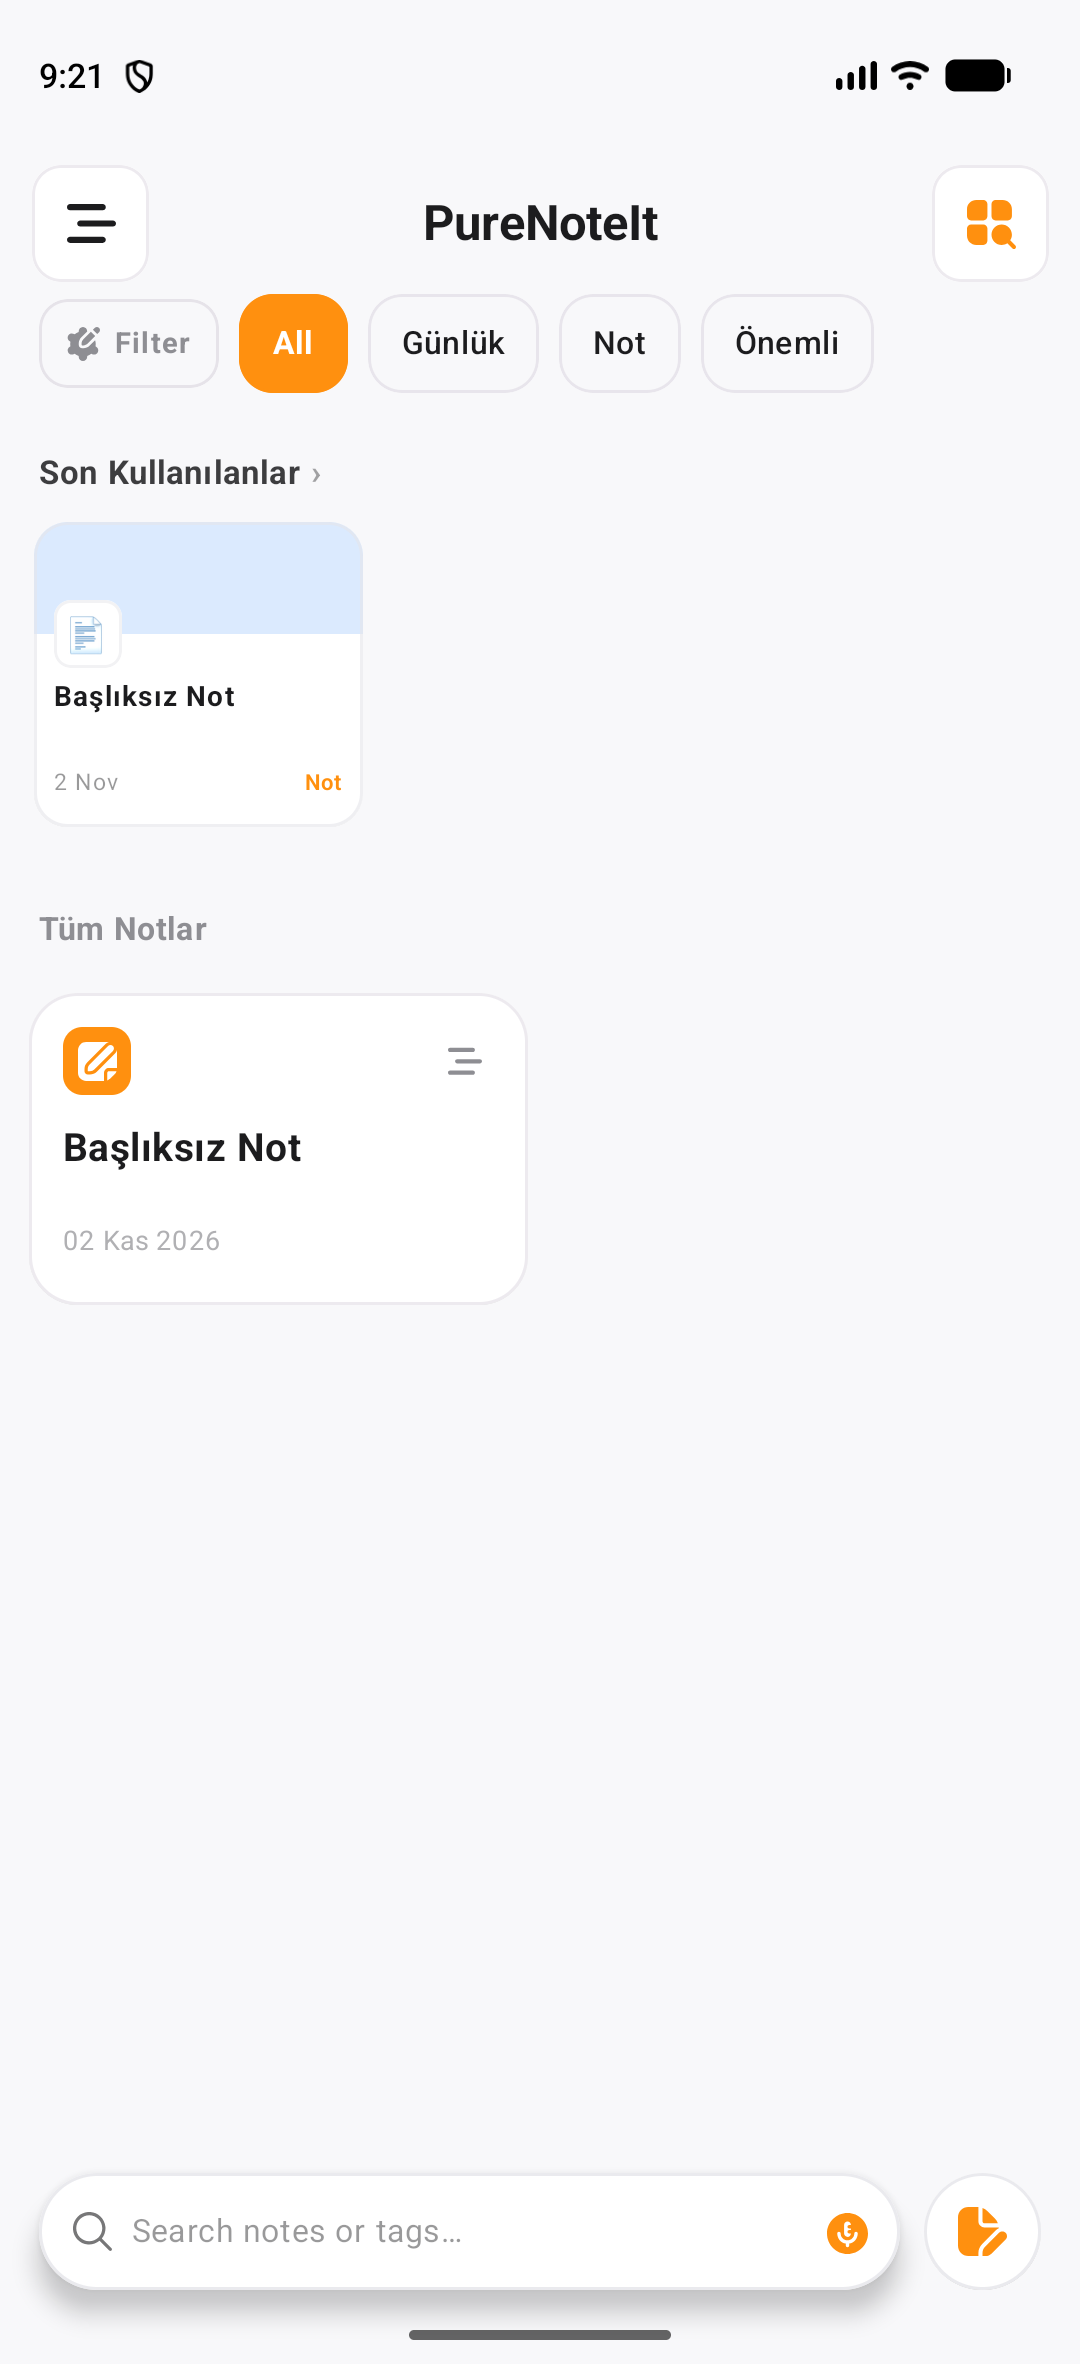
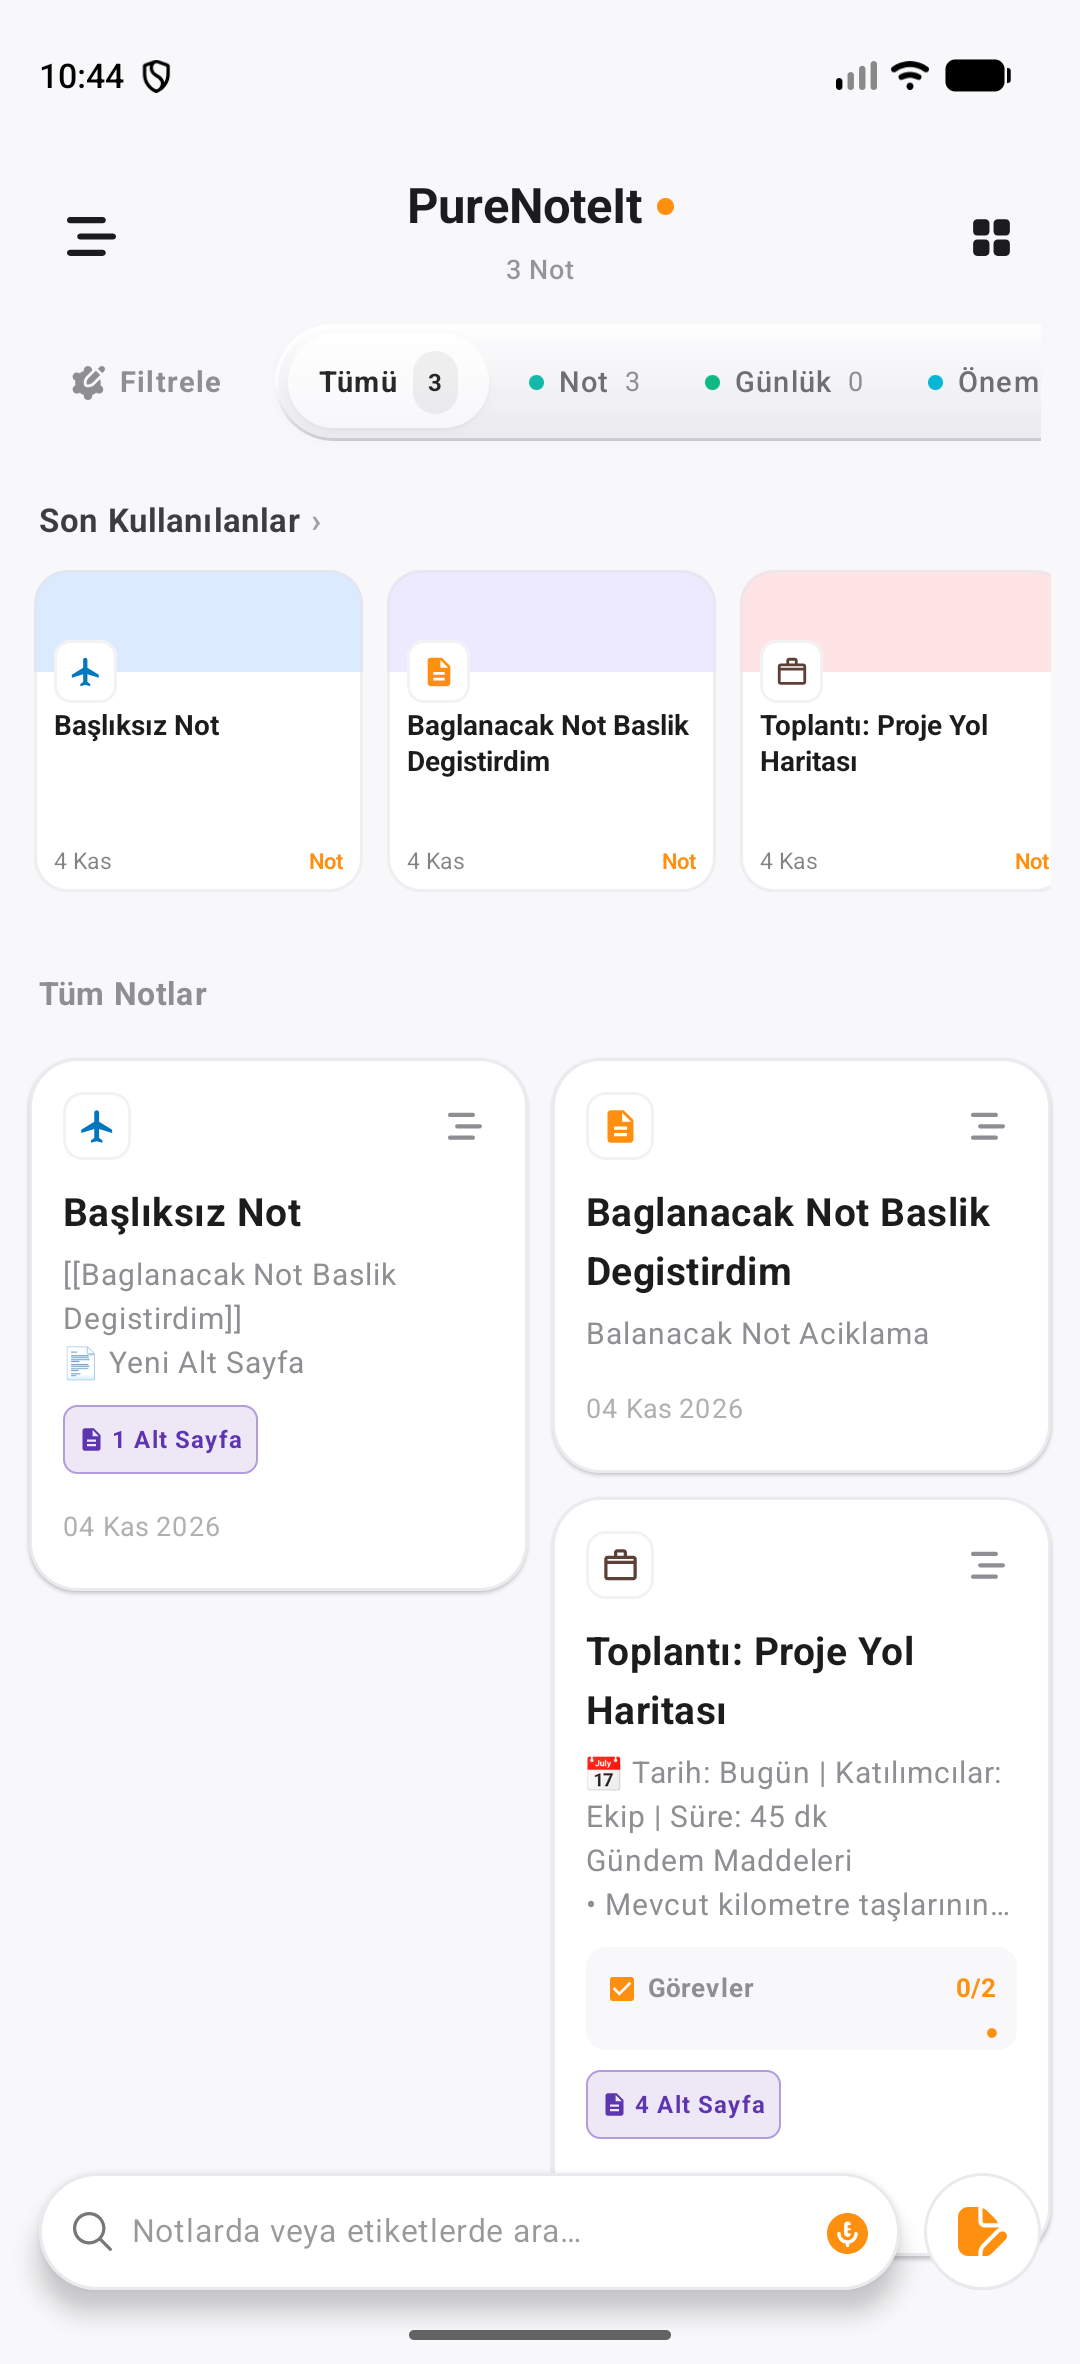
chore(release): bump version to v1.1.0 (versionCode 14) and update store screenshots

diff --git a/app/src/main/java/com/notes/purenoteit/util/AppUpdateHelper.kt b/app/src/main/java/com/notes/purenoteit/util/AppUpdateHelper.kt
@@ -48,9 +48,9 @@ object AppUpdateHelper {
     fun getCurrentVersionName(context: Context): String {
         return try {
             val pInfo = getPackageInfo(context)
-            pInfo.versionName ?: "1.0.9"
+            pInfo.versionName ?: "1.1.0"
         } catch (e: Exception) {
-            "1.0.9"
+            "1.1.0"
         }
     }
 
@@ -144,16 +144,16 @@ object AppUpdateHelper {
                     availableVersionCode = availableVerCode,
                     availableVersionName = dynamicTargetVersion,
                     releaseNotesTr = listOf(
-                        "📑 Sayfa Dizini & İlişkiler Merkezi: Alt sayfalar, giden bağlantılar ve gelen referansların tek bir panelde birleştirilmesi.",
-                        "📂 Üst Sayfa (Ebeveyn Not) Hiyerarşisi: Alt sayfalarda ebeveyn nota kolay erişim sağlayan özel hiyerarşi kartı ve rozeti.",
-                        "✨ Kayan Not Başlığı (Sticky TopAppBar): Notu aşağı kaydırdığınızda üst barda beliren akıllı başlık ve tek dokunuşla en üste sarma.",
-                        "🔗 Akıllı Not Bağlantısı: Mevcut ve mükerrer notların bağlantı listesinden elenmesi ile temiz ilişki yönetimi."
+                        "🪟 Cam Navigasyon Çubuğu (Glassy Tabs V7): 3D kapı rotasyonu (door-flip animation) ve buğulu cam (glassmorphism) üst kategori filtreleme menüsü.",
+                        "🛡 Donanım Destekli Veri Güvenliği: SQLCipher 256-bit AES şifreli veritabanı motoru ve modern Jetpack DataStore mimarisi.",
+                        "⚡ Clean Architecture & MVI: %100 Kotlin Coroutines & Flow tabanlı reaktif durum yönetimi ile maksimum hız ve kararlılık.",
+                        "🎨 Modern Material 3 Arayüzü: Yenilenen ızgara görünüm butonu, ekranda listelenen gerçek not sayısı senkronizasyonu ve akıcı sayfa geçişleri."
                     ),
                     releaseNotesEn = listOf(
-                        "📑 Unified Page Index & Relations: Sub-pages, outgoing links, and incoming backlinks organized in a single hub.",
-                        "📂 Distinct Parent Page Hierarchy: Dedicated breadcrumb hierarchy card separating parent pages from regular links.",
-                        "✨ Sticky TopAppBar Title: Smooth collapsing note header in top bar with quick tap-to-top navigation.",
-                        "🔗 Smart Note Linking: Automatic exclusion of self-notes and duplicates from the link suggestion picker."
+                        "🪟 Glassy Navigation Tabs V7: 3D door-flip hinge rotation animation and frosted glassmorphism category navigation bar.",
+                        "🛡 Hardware-Backed Security: SQLCipher 256-bit AES encrypted database engine and modern asynchronous Jetpack DataStore.",
+                        "⚡ Clean Architecture & MVI: 100% Kotlin Coroutines & Flow reactive unidirectional state management for top performance.",
+                        "🎨 Modern Material 3 UI: Refined grid view selector, accurate on-screen note counter synchronization, and fluid transitions."
                     ),
                     playUpdateInfo = appUpdateInfo
                 )
@@ -223,16 +223,16 @@ object AppUpdateHelper {
             availableVersionCode = curCode,
             availableVersionName = "v$curName",
             releaseNotesTr = listOf(
-                "📑 Sayfa Dizini & İlişkiler Merkezi: Alt sayfalar, giden bağlantılar ve gelen referansların tek bir panelde birleştirilmesi.",
-                "📂 Üst Sayfa (Ebeveyn Not) Hiyerarşisi: Alt sayfalarda ebeveyn nota kolay erişim sağlayan özel hiyerarşi kartı ve rozeti.",
-                "✨ Kayan Not Başlığı (Sticky TopAppBar): Notu aşağı kaydırdığınızda üst barda beliren akıllı başlık ve tek dokunuşla en üste sarma.",
-                "🔗 Akıllı Not Bağlantısı: Mevcut ve mükerrer notların bağlantı listesinden elenmesi ile temiz ilişki yönetimi."
+                "🪟 Cam Navigasyon Çubuğu (Glassy Tabs V7): 3D kapı rotasyonu (door-flip animation) ve buğulu cam (glassmorphism) üst kategori filtreleme menüsü.",
+                "🛡 Donanım Destekli Veri Güvenliği: SQLCipher 256-bit AES şifreli veritabanı motoru ve modern Jetpack DataStore mimarisi.",
+                "⚡ Clean Architecture & MVI: %100 Kotlin Coroutines & Flow tabanlı reaktif durum yönetimi ile maksimum hız ve kararlılık.",
+                "🎨 Modern Material 3 Arayüzü: Yenilenen ızgara görünüm butonu, ekranda listelenen gerçek not sayısı senkronizasyonu ve akıcı sayfa geçişleri."
             ),
             releaseNotesEn = listOf(
-                "📑 Unified Page Index & Relations: Sub-pages, outgoing links, and incoming backlinks organized in a single hub.",
-                "📂 Distinct Parent Page Hierarchy: Dedicated breadcrumb hierarchy card separating parent pages from regular links.",
-                "✨ Sticky TopAppBar Title: Smooth collapsing note header in top bar with quick tap-to-top navigation.",
-                "🔗 Smart Note Linking: Automatic exclusion of self-notes and duplicates from the link suggestion picker."
+                "🪟 Glassy Navigation Tabs V7: 3D door-flip hinge rotation animation and frosted glassmorphism category navigation bar.",
+                "🛡 Hardware-Backed Security: SQLCipher 256-bit AES encrypted database engine and modern asynchronous Jetpack DataStore.",
+                "⚡ Clean Architecture & MVI: 100% Kotlin Coroutines & Flow reactive unidirectional state management for top performance.",
+                "🎨 Modern Material 3 UI: Refined grid view selector, accurate on-screen note counter synchronization, and fluid transitions."
             )
         )
     }
